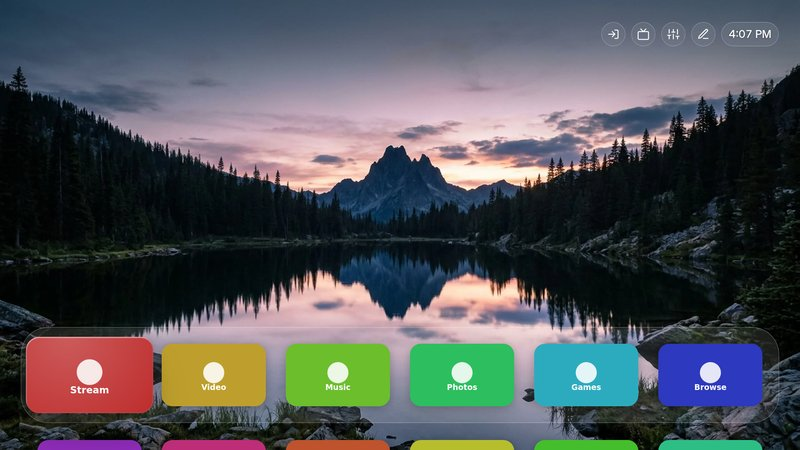
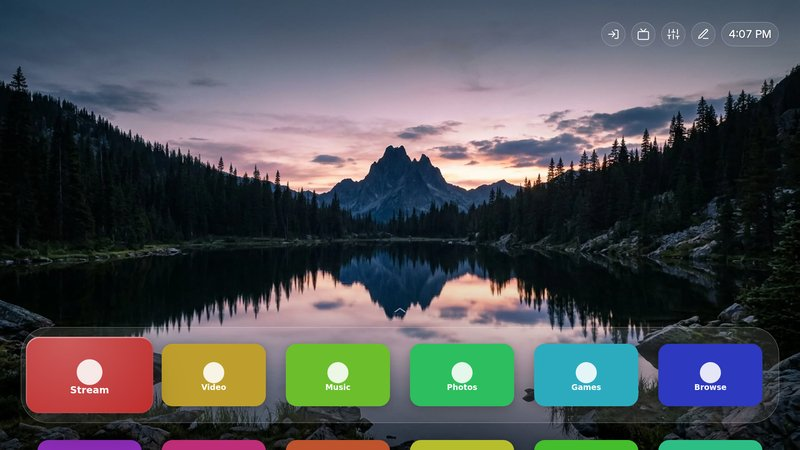
Lounge theme: the tvOS rest and grid states
The picture stays at full light (effects.wallpaperDim 0, effects.lateDim
false) with a shade only behind the platter (effects.bottomShade 0.45), a
chevron above the platter, and in the grid the status area leaves and the
platter goes up to the 60 px safe edge (grid.hideTop, grid.dockUp 60).

diff --git a/docs/themes.md b/docs/themes.md
@@ -40,7 +40,7 @@ folder of the GitHub repository (the `main` branch):
 | Couch | After [couch-tv](https://github.com/Seagey/couch-tv): five landscapes take turns every 20 seconds behind a large glass clock, the scenery in front of the digits; the date above the clock, round buttons top right, the apps on glass at the bottom; cards on frosted glass. Uses `clock.style`, `effects.scenes` and `cards.style`. |
 | Lock Screen | A phone-style lock screen: a greeting and a big clock top left, and a small, translucent dock low in the corner over a calm blue landscape, so the picture fills the screen. Down moves the dock up and shows all apps below it. Turn Wallpapers on for your own photos. It has slots for cards (Customise > Cards): the greeting is one, and there is a place under the clock. |
 | Moon | A moonlit autumn landscape with a four-app glass dock, warm focus, app-colour rails and places for cards around the clock. |
-| Lounge | A streaming-box home screen: six wide icons on a glass platter over the Couch landscapes (or your Wallpapers photos), smooth focus with a soft light and shadow, the app's name under it in the grid, a glass pill clock, and a first grid row that peeks at the bottom. Uses `effects.motion`, `tile.label`, `grid.peek`, `grid.scroll`, `effects.scenesYield`, `surface.tint` and the Inter 4 variable font set like SF Pro (`type.variable`, `type.opsz`, the `type.weight` keys). |
+| Lounge | A streaming-box home screen: six wide icons on a glass platter over the Couch landscapes (or your Wallpapers photos), smooth focus with a soft light and shadow, the app's name under it in the grid, a glass pill clock, and a first grid row that peeks at the bottom. Uses `effects.motion`, `tile.label`, `grid.peek`, `grid.scroll`, `effects.scenesYield`, `surface.tint`, `grid.hideTop`, `effects.bottomShade`, `dock.chevron` and the Inter 4 variable font set like SF Pro (`type.variable`, `type.opsz`, the `type.weight` keys). |
 
 ![Classic, Compact, Large print and Midnight](screenshots/themes-1.jpg)
 
